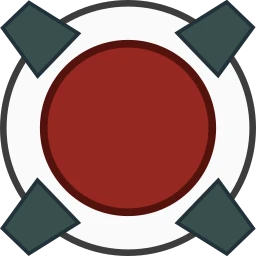
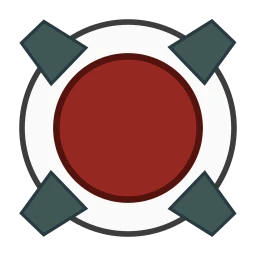
Improvements

diff --git a/README.md b/README.md
@@ -2,9 +2,9 @@
 
 ## TODO
 
+- put box on plate and make plate off? what about lasers, light barriers, fizzlers, etc?
+
 - pick up box if next to it (in addition to on top)?
-- reduce size of buttons and make corner brackets lighter
-- implement antlines
 - split plan 04 into two:
   - new mechanics (add to the plan the info from this file)
   - new levels
